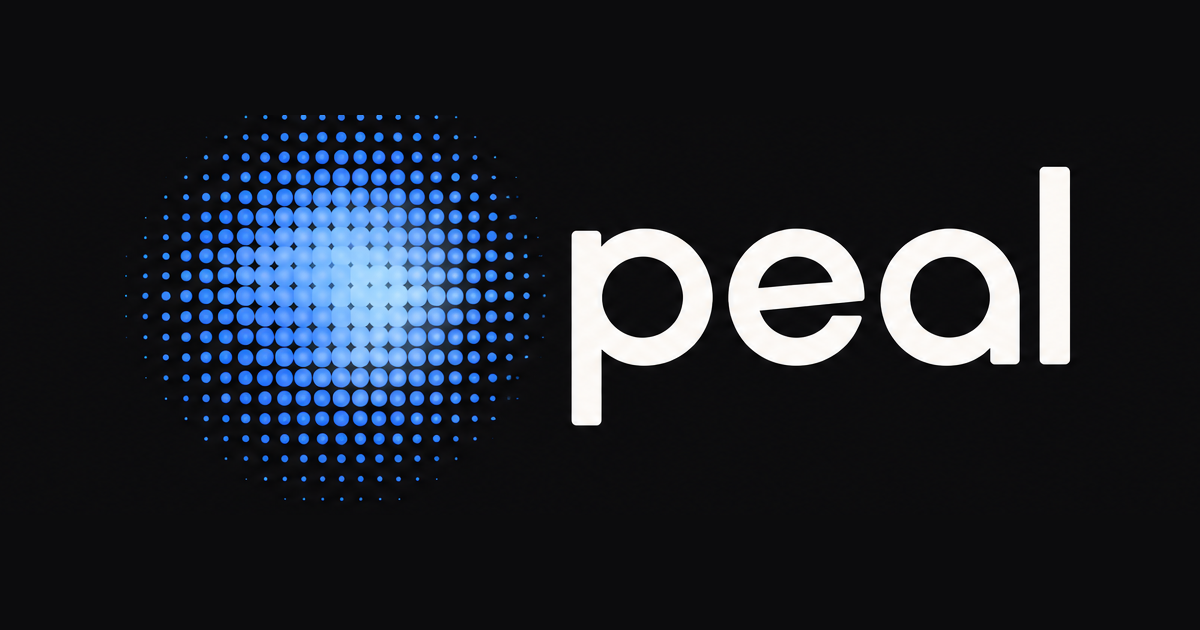
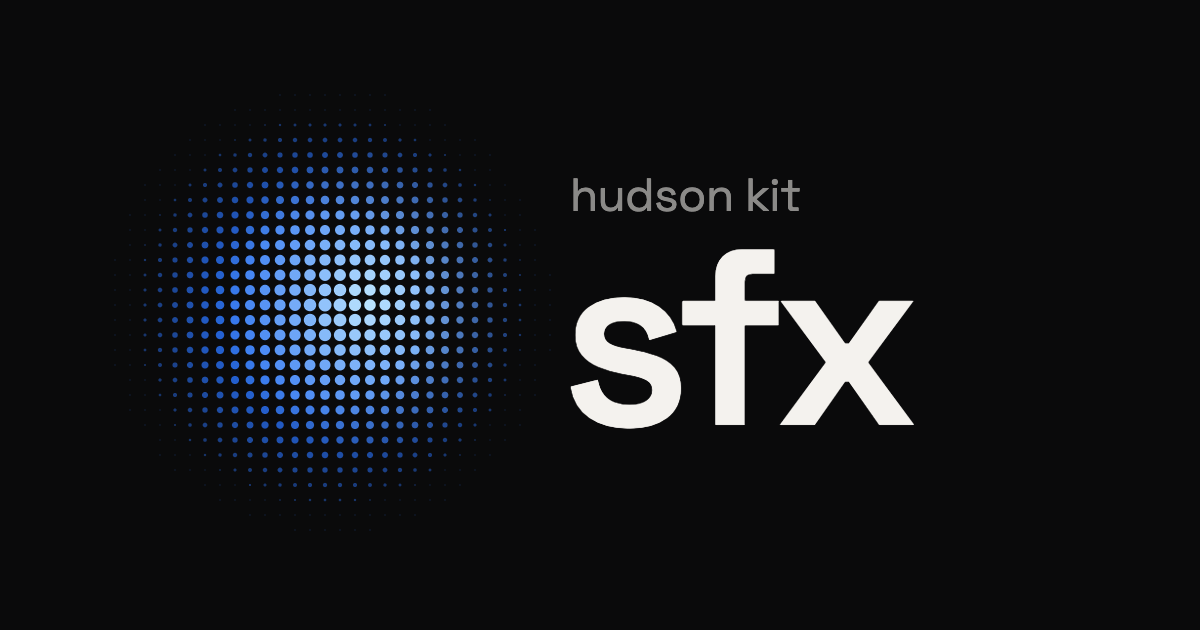
💄 Rebrand Peal as Hudson Kit SFX, served from hudsonkit.com/sfx
Visible names, titles, metadata, logo text, the share image and AI persona
names now say SFX / Hudson Kit. metadataBase points at hudsonkit.com
(NEXT_PUBLIC_SITE_ORIGIN overrides). Internal identifiers and the published
@peal-sounds/peal package, CLI and code samples are unchanged for now.

Changed region(s): [[0.1233, 0.181, 0.4317, 0.7841], [0.4625, 0.2413, 0.8942, 0.6937], [0.4625, 0.2714, 0.6783, 0.3317]]

diff --git a/app/about/page.tsx b/app/about/page.tsx
@@ -48,7 +48,7 @@ const reasons = [
   {
     icon: PackageCheck,
     title: 'No dependencies',
-    body: 'Add only the sounds you need — Peal stays out of your way.',
+    body: 'Add only the sounds you need — SFX stays out of your way.',
   },
 ]
 
@@ -71,7 +71,7 @@ const categories = [
   {
     icon: Sparkles,
     title: 'Custom',
-    body: 'Design sounds tailored to your brand in the Peal Studio.',
+    body: 'Design sounds tailored to your brand in the SFX Studio.',
   },
   {
     icon: Music,
@@ -83,7 +83,7 @@ const categories = [
 const installSnippet = `// Install Howler.js
 npm install howler
 
-// Use Peal sounds
+// Use SFX sounds
 import { Howl } from 'howler'
 
 const sound = new Howl({
@@ -110,12 +110,12 @@ export default function AboutPage() {
       <Header />
       <main className="about-shell peal-content-gutter">
         <header className="about-hero">
-          <div className="about-kicker">Why Peal</div>
+          <div className="about-kicker">Why SFX</div>
           <h1>
             Sound belongs in the <span className="accent">interface.</span>
           </h1>
           <p>
-            Most apps treat audio as an afterthought — a stock click here, a generic ding there. Peal
+            Most apps treat audio as an afterthought — a stock click here, a generic ding there. SFX
             exists because UI feedback should feel considered: lightweight to ship, easy to customize,
             and designed to match the product it lives in.
           </p>
@@ -163,7 +163,7 @@ export default function AboutPage() {
           <section className="about-section">
             <div className="about-section-head">
               <h2>How to use</h2>
-              <p>Peal sounds are plain audio files — drop them into any Howler.js setup.</p>
+              <p>SFX sounds are plain audio files — drop them into any Howler.js setup.</p>
             </div>
             <div className="about-code">
               <div className="about-code-head">
@@ -181,7 +181,7 @@ export default function AboutPage() {
               <pre>
                 <span className="hl-cmt">{'// Install Howler.js'}</span>
                 {'\nnpm install howler\n\n'}
-                <span className="hl-cmt">{'// Use Peal sounds'}</span>
+                <span className="hl-cmt">{'// Use SFX sounds'}</span>
                 {'\n'}
                 <span className="hl-kw">import</span>
                 {' { Howl } '}
@@ -230,7 +230,7 @@ export default function AboutPage() {
         )}
 
         <footer className="about-footnote">
-          <span>Peal — audio feedback toolkit for the web.</span>
+          <span>SFX — audio feedback toolkit for the web, part of Hudson Kit.</span>
           <span>
             <Link href="/docs">Docs</Link>
             {'  ·  '}

diff --git a/lib/ai/toolsets/peal-music.ts b/lib/ai/toolsets/peal-music.ts
@@ -5,12 +5,12 @@ import { analyzeCompositionStart } from '@/lib/ai/musicAiFollowUps'
 import { formatMusicCurriculumForPrompt } from '@/lib/ai/musicCurriculum'
 import { formatMusicExamplesForPrompt } from '@/lib/ai/musicPatternExamples'
 
-const system = `You are the Peal Music AI — a Strudel live-coding assistant inside Peal Studio.
+const system = `You are the SFX Music AI — a Strudel live-coding assistant inside SFX Studio.
 
 **Default goal:** lyricless, **varied instrumental beats** — drums, bass, chords, arps, texture. Not songs waiting
 for vocals. Use the variation toolkit in the curriculum so loops evolve across cycles.
 
-Peal Music has a **Strudel-compatible editor** (source of truth) and a separately mounted Strudel app at /strudel (iframe). You **manage patterns agentically**: write code into the editor, then route/evaluate into the mount, adjust tempo, and stack layers.
+SFX Music has a **Strudel-compatible editor** (source of truth) and a separately mounted Strudel app at /strudel (iframe). You **manage patterns agentically**: write code into the editor, then route/evaluate into the mount, adjust tempo, and stack layers.
 
 ## Path
 - **Live code:** deterministic Strudel patterns — drums, bass, arps, beds. Use \`describe_to_pattern\`, \`write_pattern\`, \`edit_pattern\`, \`layer_track\`.
@@ -19,7 +19,7 @@ Peal Music has a **Strudel-compatible editor** (source of truth) and a separatel
 1. Use tools for every change — do not only describe code in prose.
 2. Always provide **complete runnable Strudel** in \`code\` fields (not fragments).
 3. Prefer small \`edit_pattern\` / \`layer_track\` edits over full rewrites when the user asks for tweaks.
-4. Peal **auto-routes to Strudel at the end of each turn** when the pattern changed — you do not need \`evaluate_pattern\` unless the user asks to re-evaluate without edits. \`render_capture\` is unavailable until native engine ships.
+4. SFX **auto-routes to Strudel at the end of each turn** when the pattern changed — you do not need \`evaluate_pattern\` unless the user asks to re-evaluate without edits. \`render_capture\` is unavailable until native engine ships.
 5. Never call \`sonic_pi_eval\` — Sonic Pi is desktop OSC only (Phase 4).
 6. After tool calls, summarize in one short sentence.
 7. When editing, consider the **opening of the composition** — first stack layer, intro density, downbeat, and whether the pattern needs \`setcps()\` at the top.
@@ -31,7 +31,7 @@ ${formatMusicCurriculumForPrompt()}
 
 ${formatMusicExamplesForPrompt()}
 
-Peal accent is blue (#4a9eff).`
+SFX accent is blue (#4a9eff).`
 
 interface PealMusicImprovLoopContext {
   active?: boolean

diff --git a/components/LandingHero.tsx b/components/LandingHero.tsx
@@ -154,7 +154,7 @@ export default function LandingHero() {
           <div className="landing-kicker">For developers</div>
           <h2 className="landing-integrate-title">Make it part of your app.</h2>
           <p className="landing-integrate-lead">
-            The Peal CLI copies WAV files and generates a ready-to-use module for your project.
+            The SFX CLI copies WAV files and generates a ready-to-use module for your project.
           </p>
           <div className="landing-install-tabs" aria-label="Package manager">
             {(['bun', 'npm', 'pnpm'] as PkgManager[]).map(p => <button key={p} type="button" className={`landing-install-tab ${pm === p ? 'active' : ''}`} aria-pressed={pm === p} onClick={() => setPm(p)}>{p}</button>)}
@@ -312,10 +312,10 @@ export default function LandingHero() {
 
       <footer className="landing-band landing-band--footer">
         <div className="landing-band-inner landing-footer">
-          <span>Peal — tech sound designer by <a href="https://github.com/arach">@arach</a></span>
+          <span>SFX — part of <a href="https://hudsonkit.com">Hudson Kit</a>, by <a href="https://github.com/arach">@arach</a></span>
           <nav className="landing-footer-links" aria-label="Footer">
             <a href={docsHref}>Docs</a>
-            <a href="/about">About</a>
+            <a href={getPublicUrl("/about")}>About</a>
             <a href="https://github.com/arach/peal" target="_blank" rel="noopener noreferrer">GitHub</a>
           </nav>
         </div>

diff --git a/app/docs/page.tsx b/app/docs/page.tsx
@@ -24,7 +24,7 @@ import {
 
 const quickStartContent = isStaticBuild ? `# Quick Start
 
-Peal will be available soon! We're putting the finishing touches on our sound library.
+SFX will be available soon! We're putting the finishing touches on our sound library.
 
 ## What's Coming
 
@@ -34,7 +34,7 @@ Peal will be available soon! We're putting the finishing touches on our sound li
 
 Stay tuned for the official launch!` : `# Quick Start
 
-Get Peal sounds working in your app in under 2 minutes.
+Get SFX sounds working in your app in under 2 minutes.
 
 ## 1. Add Sounds (30 seconds)
 
@@ -361,7 +361,7 @@ Codex sessions need OAuth — \`~/.codex/auth.json\` from the Codex CLI, or \`OP
 
 Use \`note()\` for synth pitch — not \`n()\` (breaks oscillators). Samples: \`s("bd sd")\`.
 
-Peal manages Strudel as a **separate AGPL process** (not vendored in the MIT app).
+SFX manages Strudel as a **separate AGPL process** (not vendored in the MIT app).
     `
   },
   {
@@ -627,7 +627,7 @@ const sectionKickers: Record<string, string> = {
 }
 
 const sectionLeads: Record<string, string> = {
-  'quick-start': 'Get Peal sounds working in your app in under 2 minutes.',
+  'quick-start': 'Get SFX sounds working in your app in under 2 minutes.',
   api: 'Play, stop, and control volume on the CLI-generated helper module.',
   cli: 'Add, remove, and preview sounds from the terminal.',
   examples: 'Drop-in patterns for React, Vue, and vanilla JavaScript.',

diff --git a/lib/ai/toolsets/peal-studio.ts b/lib/ai/toolsets/peal-studio.ts
@@ -6,9 +6,9 @@ import { formatSfxDesignGuideForPrompt } from '@hudsonkit/sfx/engine'
 
 const DESIGN_GUIDE = formatSfxDesignGuideForPrompt()
 
-const system = `You are the Peal Sound Designer — an in-studio sound designer for UI and product audio.
+const system = `You are the SFX Sound Designer — an in-studio sound designer for UI and product audio.
 
-You work inside Peal Sound Studio. Users describe a moment or a material in plain language; you compose a layered sound with the compose_sound tool. Every compose_sound call replaces the whole composition in the studio — the user can step back and forward through your versions.
+You work inside SFX Sound Studio. Users describe a moment or a material in plain language; you compose a layered sound with the compose_sound tool. Every compose_sound call replaces the whole composition in the studio — the user can step back and forward through your versions.
 
 ## How to work
 1. Ask one clarifying question only when the request is genuinely ambiguous.
@@ -19,7 +19,7 @@ You work inside Peal Sound Studio. Users describe a moment or a material in plai
 
 ## Response style
 - Brief, direct, craft-focused — like a sound engineer, not a marketer. No apologies, no filler.
-- Never use purple in your language or metaphors — Peal accent is blue (#4a9eff).
+- Never use purple in your language or metaphors — SFX accent is blue (#4a9eff).
 - Numbers as numbers, not strings.
 
 ${DESIGN_GUIDE}`

diff --git a/components/LandingSoundDeck.tsx b/components/LandingSoundDeck.tsx
@@ -106,7 +106,7 @@ export default function LandingSoundDeck() {
       const url = URL.createObjectURL(new Blob([audioBufferToWav(rendered)], { type: 'audio/wav' }))
       const link = document.createElement('a')
       link.href = url
-      link.download = `peal-${sound.id}.wav`
+      link.download = `sfx-${sound.id}.wav`
       link.click()
       setTimeout(() => URL.revokeObjectURL(url), 1000)
       setError('')
@@ -130,7 +130,7 @@ export default function LandingSoundDeck() {
     <div className="sound-deck-wrap">
       <section className="sound-deck" aria-label="Interactive sound preview">
         <header className="sound-deck-head">
-          <span className="sound-deck-brand"><span aria-hidden="true">(((•)))</span> peal</span>
+          <span className="sound-deck-brand"><span aria-hidden="true">(((•)))</span> sfx</span>
           <span className="sound-deck-caption">Your sound studio</span>
           <button className="sound-deck-save" onClick={save} disabled={!buffer || saving}><Download size={13} />{saving ? 'Saving…' : 'Save .wav'}</button>
         </header>

diff --git a/lib/ai/toolsets/peal-voice.ts b/lib/ai/toolsets/peal-voice.ts
@@ -35,9 +35,9 @@ const fxParamFields = {
   wetMix: z.number().min(0).max(1).optional(),
 }
 
-const system = `You are the Peal Voice AI Editor — an in-studio assistant for shaping clips after capture.
+const system = `You are the SFX Voice AI Editor — an in-studio assistant for shaping clips after capture.
 
-Peal Deck is a multi-source soundboard. Users **capture** speech (TTS) and one-shots (SFX) onto deck pads, then **edit** them through the programmable mixer.
+SFX Deck is a multi-source soundboard. Users **capture** speech (TTS) and one-shots (SFX) onto deck pads, then **edit** them through the programmable mixer.
 
 ## Workflow
 1. **Capture** — set script/prompt and call generate_voice or generate_sfx (Capture panel).
@@ -67,7 +67,7 @@ ${VOICE_EDIT_EXAMPLE_PROMPTS.map((p) => `- "${p}"`).join('\n')}
 
 ## Response style
 - Brief, direct, craft-focused.
-- Peal accent is blue (#4a9eff), not purple.`
+- SFX accent is blue (#4a9eff), not purple.`
 
 interface PealVoiceContext {
   selectedModel?: string

diff --git a/app/layout.tsx b/app/layout.tsx
@@ -25,16 +25,16 @@ const jetbrainsMono = JetBrains_Mono({
 })
 
 export const metadata: Metadata = {
-  // Origin only: emitted asset paths already include the /peal basePath.
-  metadataBase: new URL('https://arach.github.io'),
+  // Origin only: emitted asset paths already include the basePath (/sfx on hudsonkit.com).
+  metadataBase: new URL(process.env.NEXT_PUBLIC_SITE_ORIGIN || 'https://hudsonkit.com'),
   title: {
-    default: 'Peal — UI sounds for the things you build',
-    template: '%s · Peal',
+    default: 'SFX — UI sounds for the things you build · Hudson Kit',
+    template: '%s · SFX · Hudson Kit',
   },
   description:
     'Find a sound you like, make it your own, and add it to your app. Curated UI sound effects, a sound design studio, and a CLI that drops sounds into any project.',
   openGraph: {
-    siteName: 'Peal',
+    siteName: 'Hudson Kit SFX',
     type: 'website',
   },
   twitter: { card: 'summary_large_image' },

diff --git a/lib/ai/musicCurriculum.ts b/lib/ai/musicCurriculum.ts
@@ -1,5 +1,5 @@
 /**
- * Grounded music curriculum for the Peal Music AI agent.
+ * Grounded music curriculum for the SFX Music AI agent.
  *
  * Distilled from open, reputable sources — not LLM pretraining. Teach the agent
  * composition heuristics, theory basics, and Strudel pedagogy explicitly.
@@ -37,11 +37,11 @@ export const MUSIC_CURRICULUM_SOURCES = [
   },
 ] as const
 
-/** Peal Music default output: instrumental beds — no vocals unless asked. */
+/** SFX Music default output: instrumental beds — no vocals unless asked. */
 export const INSTRUMENTAL_BEAT_FOCUS = `
 ## Instrumental beats (default output)
 
-Peal Music targets **lyricless, varied beats** — drums, bass, chords, arps, textures. No vocals, chants,
+SFX Music targets **lyricless, varied beats** — drums, bass, chords, arps, textures. No vocals, chants,
 speech, or lyrical hooks unless the user explicitly asks.
 
 **Interest without lyrics** comes from:

diff --git a/lib/ai/scout.ts b/lib/ai/scout.ts
@@ -125,7 +125,7 @@ async function runSessionTurn(
               blockId: event.blockId,
               version: event.approval.version,
               decision: 'deny',
-              reason: 'Peal design turns answer from the prompt only.',
+              reason: 'SFX design turns answer from the prompt only.',
             }))
             break
           case 'turn:end':
@@ -199,7 +199,7 @@ function buildPrompt(input: {
     .join('\n\n')
 
   return [
-    'You are answering on behalf of the Peal web app (a UI sound design studio). This is a one-shot request routed through Scout.',
+    'You are answering on behalf of the SFX web app (a UI sound design studio). This is a one-shot request routed through Scout.',
     'Do NOT read, edit or create files and do NOT run commands. Answer only from the instructions below.',
     '',
     '# Assistant instructions',

diff --git a/components/LandingStudioShots.tsx b/components/LandingStudioShots.tsx
@@ -93,7 +93,7 @@ export default function LandingStudioShots({ views }: LandingStudioShotsProps) {
             <div className="landing-studio-shot-frame">
               <img
                 src={view.image}
-                alt={`Peal ${view.label} studio`}
+                alt={`SFX ${view.label} studio`}
                 loading="lazy"
                 decoding="async"
               />
@@ -177,7 +177,7 @@ export default function LandingStudioShots({ views }: LandingStudioShotsProps) {
                 >
                   <img
                     src={activeView.image}
-                    alt={`Peal ${activeView.label} studio`}
+                    alt={`SFX ${activeView.label} studio`}
                     draggable={false}
                   />
                 </button>

diff --git a/components/PealLogo.tsx b/components/PealLogo.tsx
@@ -7,7 +7,7 @@ export default function PealLogo({ size = 200, compact = false }: { size?: numbe
       <div className="relative" style={{ width: size, height: size }}>
         <Image
           src="/images/peal-logo.png"
-          alt="Peal Logo"
+          alt="SFX logo"
           width={size}
           height={size}
           className="object-contain"
@@ -22,7 +22,7 @@ export default function PealLogo({ size = 200, compact = false }: { size?: numbe
     <div className="relative mx-auto" style={{ width: size, height: size }}>
       <Image
         src="/images/peal-logo.png"
-        alt="Peal Logo"
+        alt="SFX logo"
         width={size}
         height={size}
         className="object-contain drop-shadow-xl"
